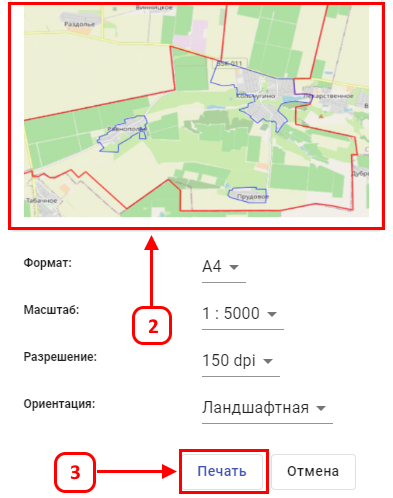
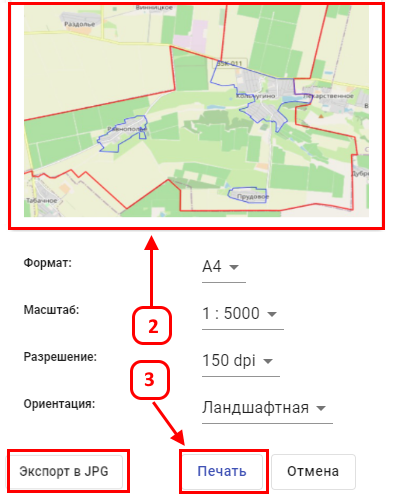
Merged PR 568: chore(ui:help) update help for print export jpg
Related work items: #3037

diff --git a/portal-ui/src/assets/help/map/print/00print.html b/portal-ui/src/assets/help/map/print/00print.html
@@ -7,8 +7,8 @@
   </li>
   <li>
     В окне предварительного просмотра печати разместите изображение карты посредством перетаскивания карты(2)
-    Укажите требуемые параметры печати, а затем нажмите на кнопку <i>«Печать»</i>(3).
-    В результате формируется и скачивается pdf документ.
+    Укажите требуемые параметры печати, а затем нажмите на кнопку <i>«Печать»</i>(3) скачивается файл pdf.
+    Для скачивания файла jpg нажмите кнопку «Экспорт в JPG»
   </li>
 </ol>
 <center><img src="00print_2.png" alt=""></center>

diff --git a/portal-ui/src/assets/help/map/orgManagement/00orgManagement.html b/portal-ui/src/assets/help/map/orgManagement/00orgManagement.html
@@ -52,4 +52,9 @@
   <li>
     Вернуться во вкладку «Группы». Выбрать нужную. Выполнить шаги 1-4.
   </li>
+  <li>
+    На странице "Управление организацией" в таблице "Пользователи" появилось новое действие "Редактирование",
+    которое открывает окно с возможностью изменения данных пользователя. После обновления данных изменения видны сразу на общей странице.
+    <center><img src="00orgManagement_8.png" alt=""></center>
+  </li>
 </ol>
